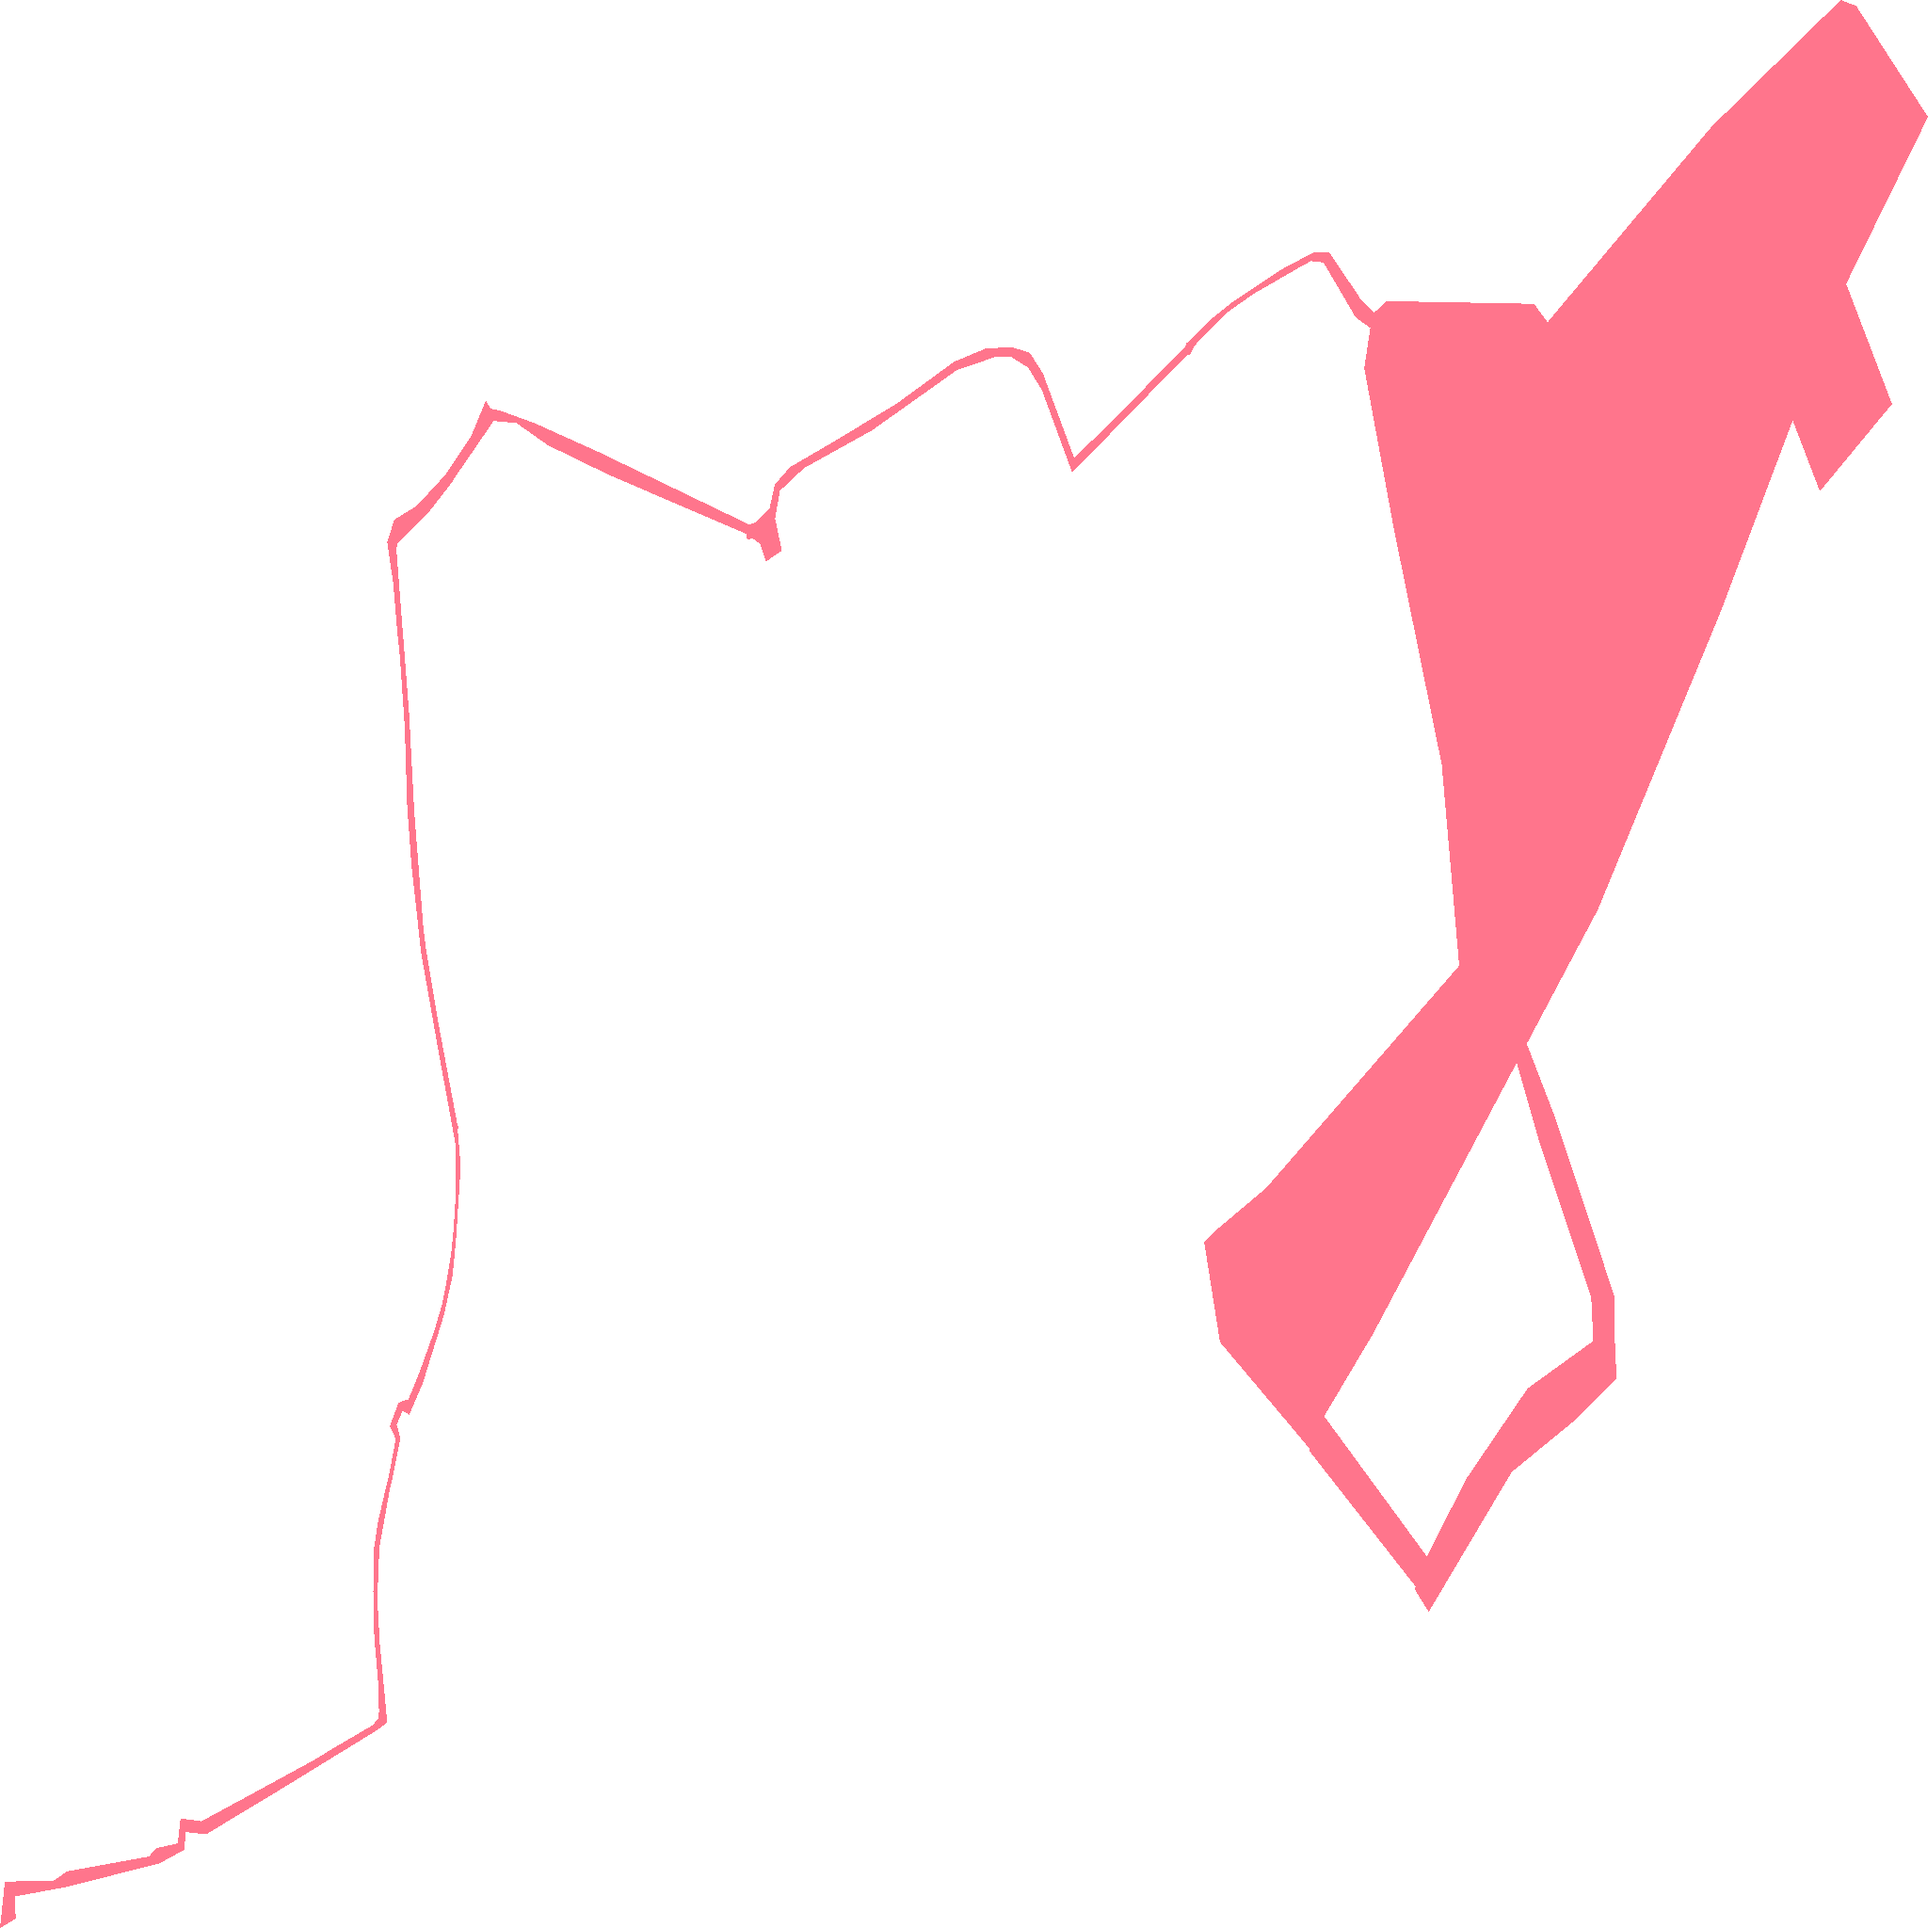
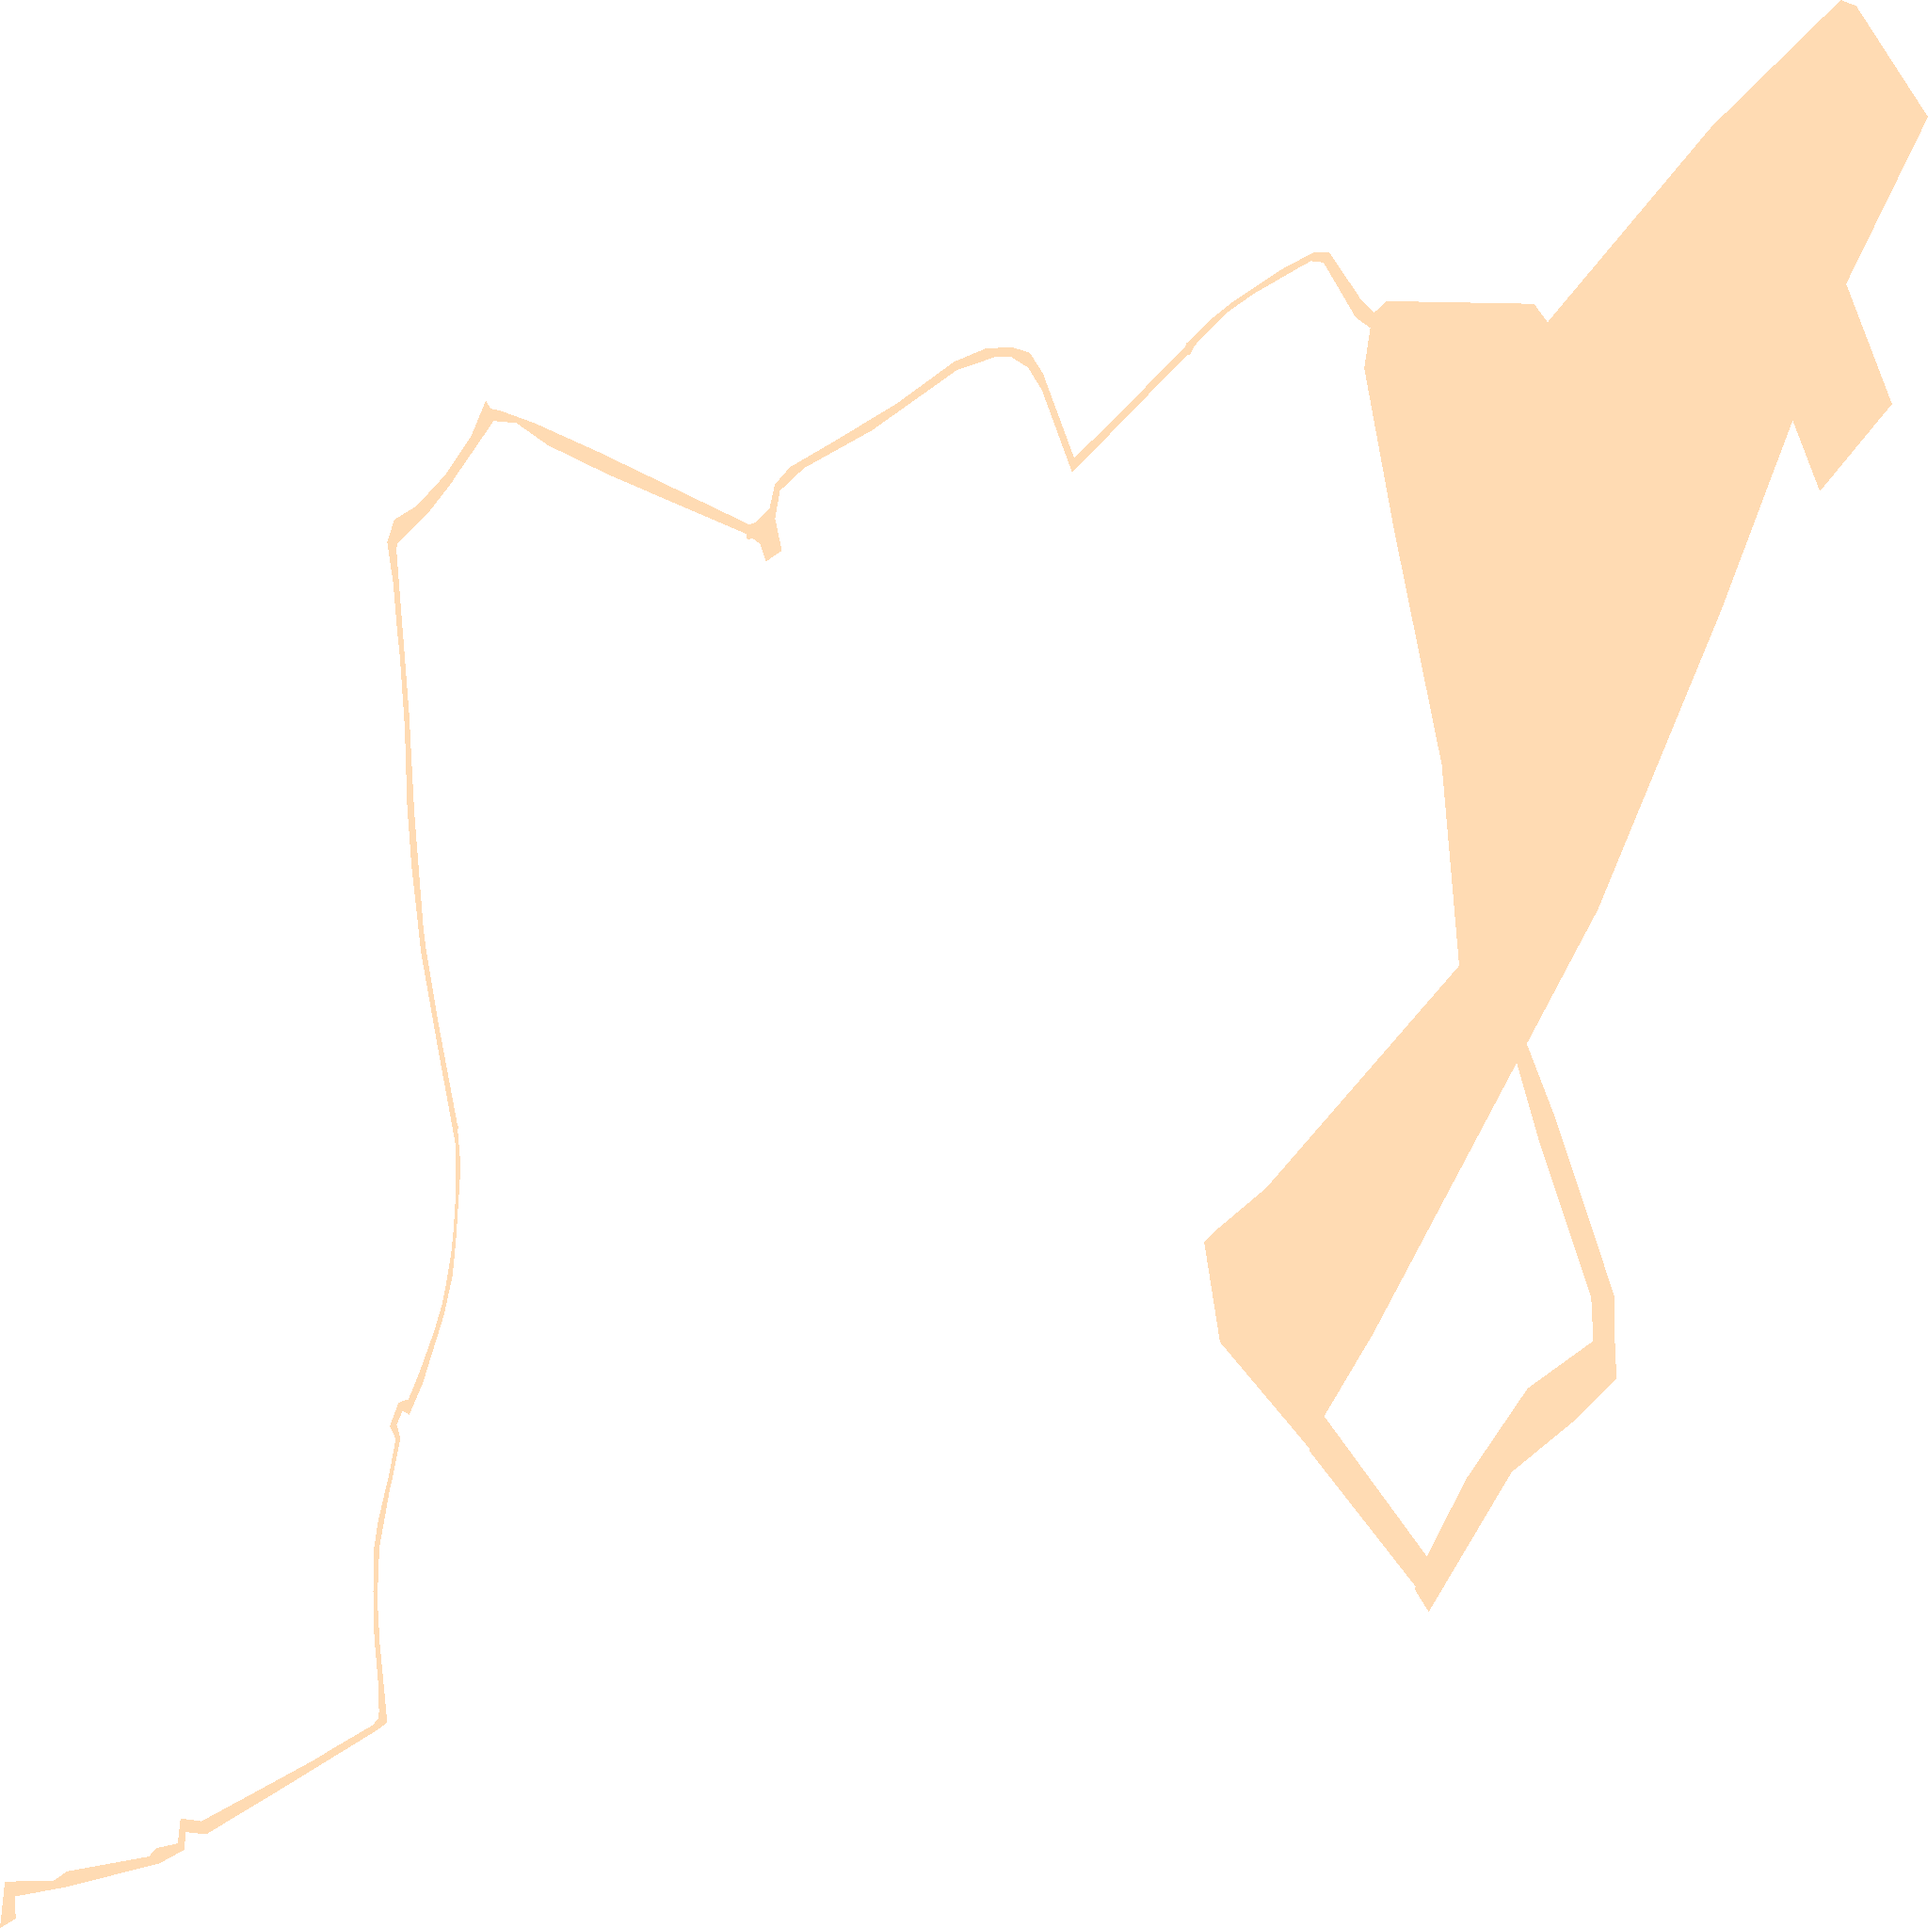
Karte sp_634

diff --git a/sp_634.html b/sp_634.html
@@ -60,7 +60,7 @@
         }
         .custom-control2 {
             position: absolute;
-            bottom: -320px;
+            top: 110px;
             left: 0px;
             background: white;
             padding: 5px;
@@ -77,24 +77,6 @@
         .custom-control:hover, .custom-control2:hover {
             background-color: #f0f0f0 !important;
         }
-        .leaflet-control-geocoder-icon {
-            background-color: white !important;
-            color: grey !important;
-            border: none !important;
-            width: 20px;
-            height: 20px;
-            display: flex;
-            justify-content: center;
-            align-items: center;
-            font-size: 15px;
-            font-family: 'Montserrat', sans-serif;
-            box-shadow: 0 1px 3px rgba(0, 0, 0, 0.3);
-            border-radius: 2px;
-            cursor: pointer;
-        }
-        .leaflet-control-geocoder-icon:hover {
-            background-color: #f0f0f0 !important;
-        }
         .custom-marker {
             width: 15px;
             height: 15px;
@@ -104,8 +86,8 @@
         }
         #legend {
             position: absolute;
-            bottom: 80px;
-            left: 55px;
+            top: 160px;
+            left: 10px;
             display: none;
             z-index: 1000;
             background: white;
@@ -128,8 +110,9 @@
 <body>
     <div id="map"></div>
     <div id="legend">
-        <div><span style="display:inline-block; width:20px; height:10px; background:#FF7F00; margin-right:5px;"></span>Ausbauphase 1: Ausbau bei ausreichender Nachfrage</div>
+        <div><span style="display:inline-block; width:20px; height:10px; background:#FF7F00; margin-right:5px;"></span>Ausbauphase 1: Glasfasernetz vorhanden oder geplant</div>
         <div><span style="display:inline-block;width:20px; height:10px; background:#00143C; margin-right:5px;"></span>Ausbauphase 2: Interessenbekundung möglich</div>
+        <div><span style="display:inline-block;width:20px; height:10px; background:#FFC17D; margin-right:5px;"></span>Ausbauphase 3: Gefördertes Ausbaugebiet </div>
     </div>
     <script>
     const bounds = [[50.419518404, 9.198003403], [50.425215081, 9.2131949]];
@@ -166,20 +149,6 @@
         });
         map.addControl(new legendControl());
         const markerLayerGroup = L.layerGroup().addTo(map);
-        const geocoder = L.Control.geocoder({
-            defaultMarkGeocode: false
-        })
-            .on('markgeocode', function (e) {
-                markerLayerGroup.clearLayers();
-                const latlng = e.geocode.center;
-                const customMarker = L.divIcon({
-                    className: 'custom-marker'
-                });
-                const marker = L.marker(latlng, { icon: customMarker });
-                markerLayerGroup.addLayer(marker);
-                map.fitBounds(bounds);
-            })
-            .addTo(map);
     </script>
 </body>
 </html>
